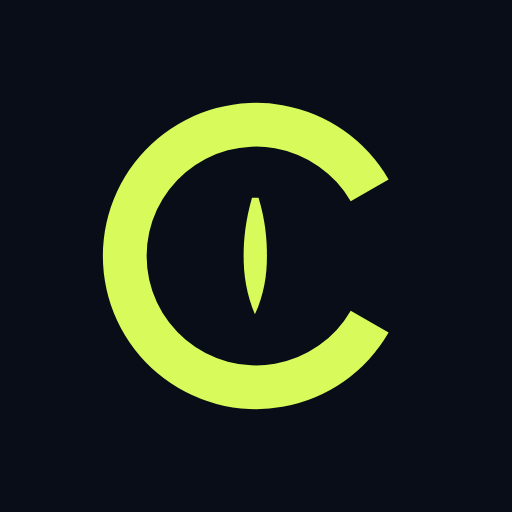
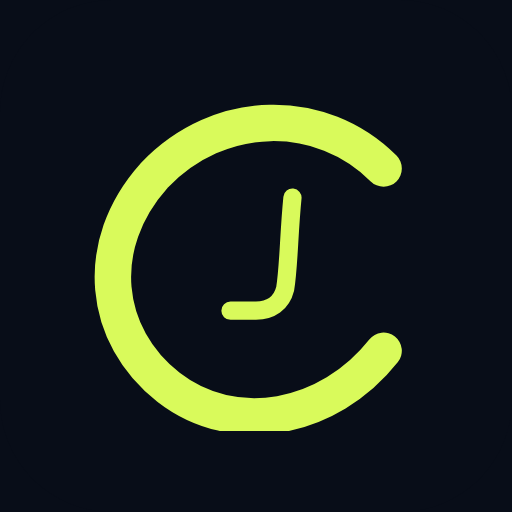
Adopt hand-drawn C and J design language

diff --git a/components/BrandMark.tsx b/components/BrandMark.tsx
@@ -1,17 +1,1 @@
-export function BrandMark({ className }: { className?: string }) {
-  return (
-    <svg className={className} viewBox="0 0 96 96" aria-hidden="true" focusable="false">
-      <path
-        fill="currentColor"
-        fillRule="evenodd"
-        d="M84.37 69 A42 42 0 1 1 84.37 27 L73.98 33 A30 30 0 1 0 73.98 63 Z"
-      />
-      <path
-        fill="currentColor"
-        d="M48.7 32 C50.5 38 51 43 51 48 C51 53.4 50.2 58.5 47.7 64 C45.4 58.5 44.6 53.4 44.6 48 C44.6 43 45.2 38 46.9 32 Z"
-      />
-
-    </svg>
-  );
-}
-
+export function BrandMark({ className }: { className?: string }) { return (<svg className={className} viewBox="0 0 96 96" aria-hidden="true" focusable="false"><path d="M83 24 C66 7 38 7 20 26 C3 45 6 70 24 84 C42 98 68 93 83 74" fill="none" stroke="currentColor" strokeWidth="10" strokeLinecap="round"/><path d="M58 32 C57 42 57 51 56 57 C55 61 52 63 48 63 L41 63" fill="none" stroke="currentColor" strokeWidth="5" strokeLinecap="round" strokeLinejoin="round"/></svg>); }
